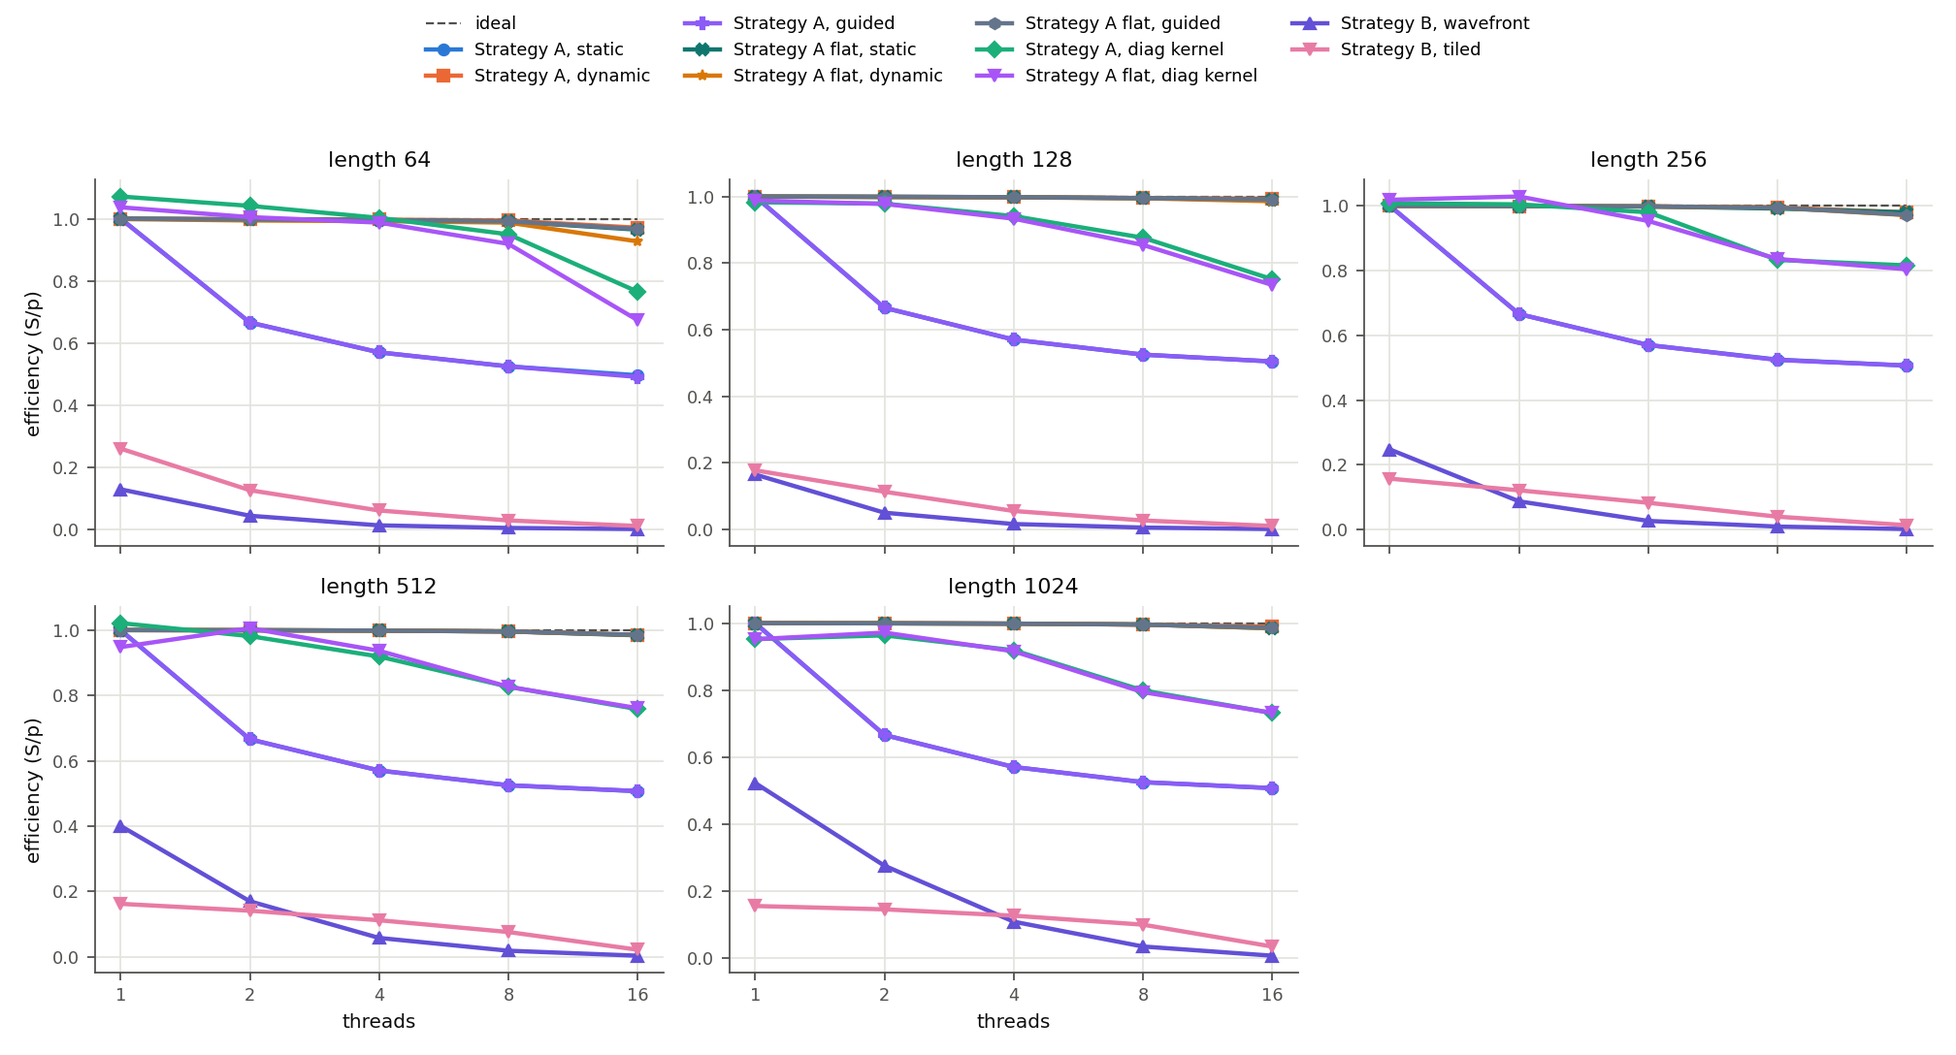
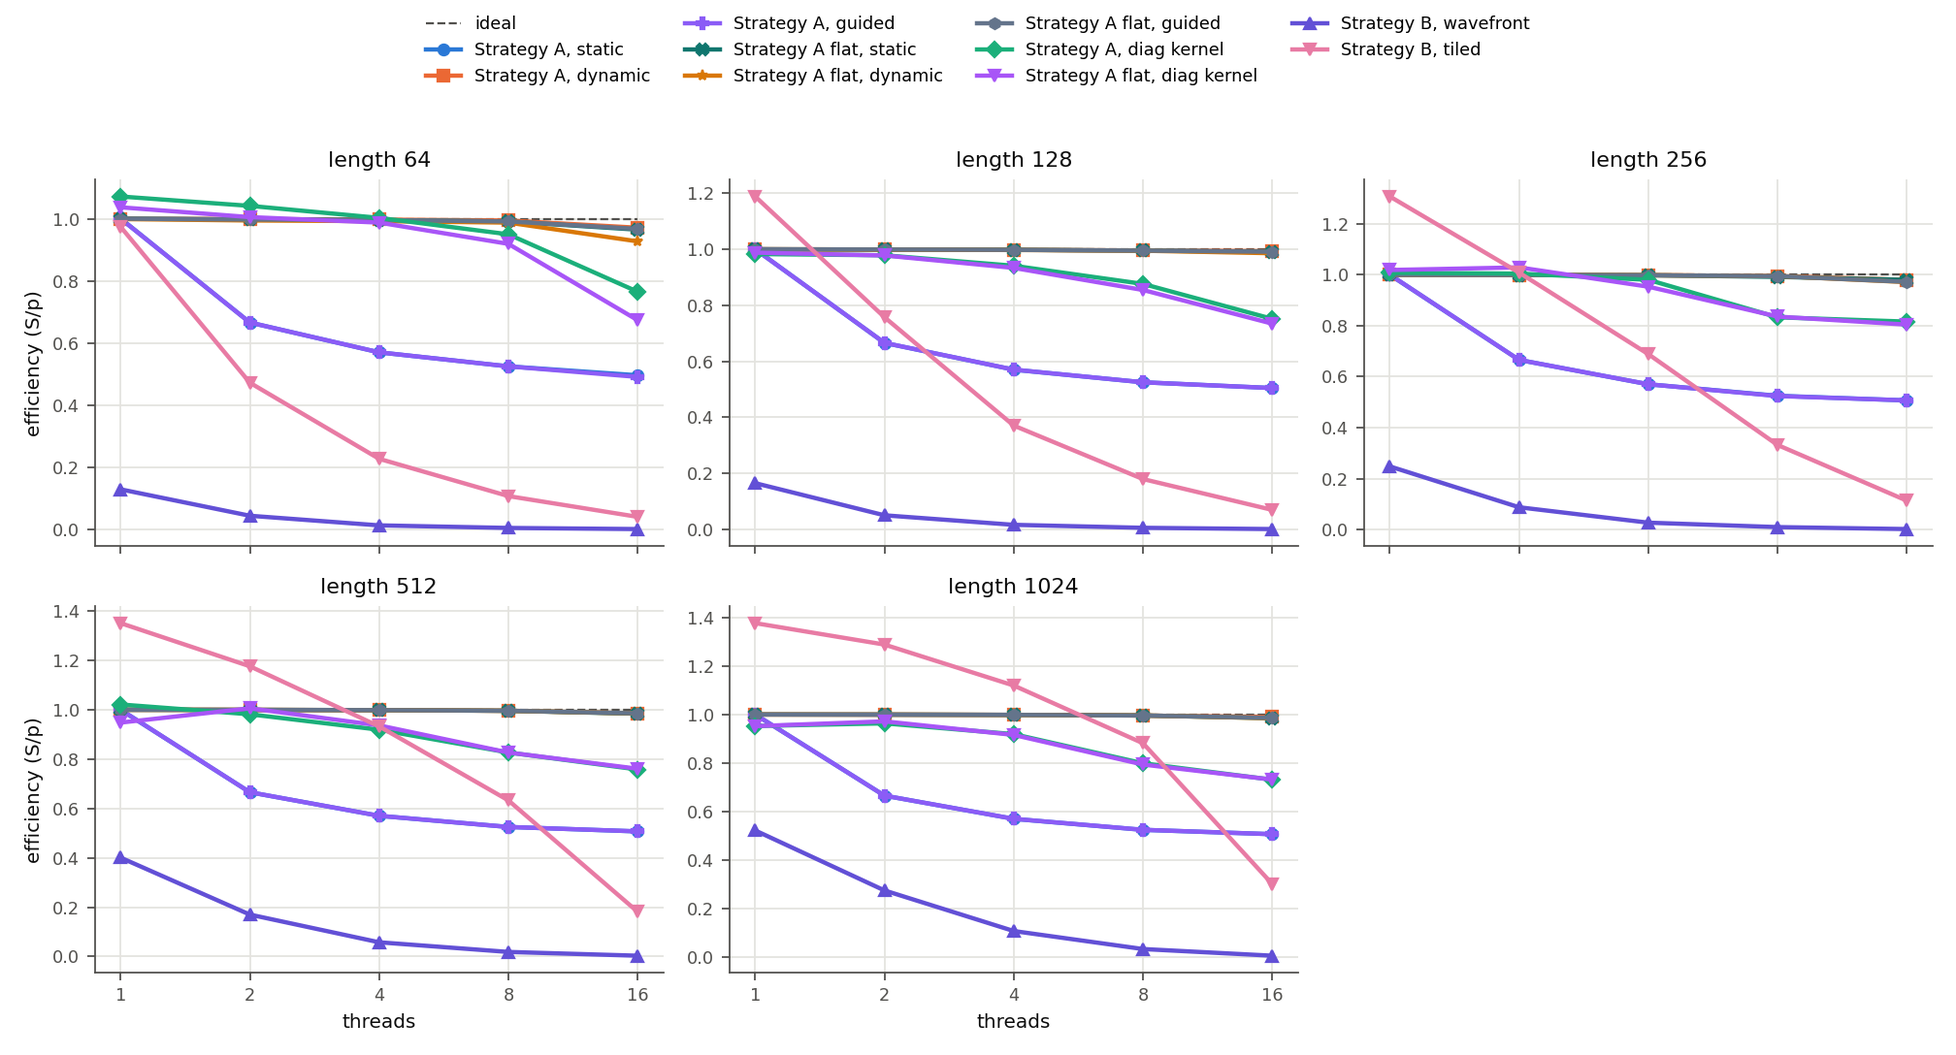
Correct tiled strategy speedup baseline

diff --git a/scripts/analyze.py b/scripts/analyze.py
@@ -77,14 +77,14 @@ def summarise(df):
     one = par[par.threads == 1].set_index(["variant", "n", "len"]).time.rename("t_self1")
     par = par.join(one, on=["variant", "n", "len"])
     # Preserve same-variant thread scaling as a separate metric. Headline
-    # speedup uses the matching serial kernel: row order for A/Aflat and
-    # diagonal order for Adiag/Adflat/B/Btiled.
+    # speedup uses the matching serial kernel: row order for A/Aflat/Btiled and
+    # diagonal order for Adiag/Adflat/B.
     par["self_speedup"] = par.t_self1 / par.time              # vs same code at p=1
     par["speedup_vs_row_serial"] = par.t_serial / par.time
     par["speedup_vs_diag"] = par.t_diag_serial / par.time     # vs diagonal-order serial
-    diag_variants = par.variant.isin(
-        ["Adiag-dynamic", "Adflat-dynamic", "B", "Btiled"]
-    )
+    # Btiled evaluates the cells of each tile in row order, so its matching
+    # serial kernel is row order, like A/Aflat (not the diagonal kernel).
+    diag_variants = par.variant.isin(["Adiag-dynamic", "Adflat-dynamic", "B"])
     par["speedup"] = par.speedup_vs_row_serial
     par.loc[diag_variants, "speedup"] = par.loc[
         diag_variants, "speedup_vs_diag"
@@ -268,7 +268,7 @@ def write_md(df, par, out):
         lines.append(f"| {L} | {s.iloc[0]:.3f} | {d.iloc[0]:.3f} |" if len(s) and len(d) else f"| {L} | - | - |")
     lines += ["", "## Speedup vs matching serial baseline (efficiency in brackets)",
               "", "Speedup is T_serial / T_p; efficiency is speedup / thread count.",
-              "Row-order A variants use row-order serial. Diagonal-kernel and wavefront variants use diagonal-order serial (Bdiag).",
+              "Row-order A variants and tiled B (row-order cells inside each tile) use row-order serial. Diagonal-kernel A variants and wavefront B use diagonal-order serial (Bdiag).",
               "Scaling against each variant's own one-thread run is available in `summary.csv` as `self_speedup` and in `fig_self_speedup.png`.", ""]
     threads = sorted(par.threads.unique())
     for L in sorted(par.len.unique()):

diff --git a/README.md b/README.md
@@ -1,156 +1,179 @@
 # PulseWarp: Parallel Pairwise DTW for ECG Heartbeats
 
-CSC 548 Fall 2026, Purtee Mahajan and Yash Dhavale.
+CSC 548 Fall 2026 — Purtee Mahajan and Yash Dhavale
 
-All-pairs Dynamic Time Warping over N ECG heartbeats (N(N-1)/2 DTWs),
-accelerated with OpenMP two ways:
+PulseWarp computes all-pairs Dynamic Time Warping (DTW) distances for `N`
+heartbeat sequences, requiring `N(N-1)/2` pairwise DTW computations. It compares
+two OpenMP parallelization strategies:
 
 | | Strategy A | Strategy B |
 |---|---|---|
-| split unit | whole heartbeat pairs | cells of one anti-diagonal |
-| parallelism | across DTW computations | inside one DTW |
-| overhead | almost none | one barrier per diagonal (2L per DTW) |
+| Parallel unit | Whole heartbeat pairs | Cells on one anti-diagonal |
+| Parallelism | Across independent DTW computations | Within a DTW computation |
+| Main overhead | Scheduling pair iterations | A barrier between anti-diagonals |
 
-## Layout
+## Repository layout
 
-```
+```text
 src/pulsewarp.h   API
-src/data.c        MIT-BIH CSV loader, synthetic beats, linear resampling
-src/dtw.c         DTW kernels: row order (reference), diagonal order,
-                  wavefront (omp for per anti-diagonal), tiled wavefront
-src/allpairs.c    all-pairs drivers for every strategy
-src/main.c        CLI, timing (median of reps), golden write/verify, CSV row
-tests/test_dtw.c  unit tests (hand-checked values, all variants bit-identical)
-scripts/          SLURM templates, sweep, data download, analysis/plots
-data/             put mitbih_train.csv here (see data/README.md)
-results/          golden vectors, sweep CSVs, logs, analysis output
+src/data.c        MIT-BIH CSV loader, synthetic beats, and linear resampling
+src/dtw.c         Row-order reference, diagonal-order, wavefront, and tiled kernels
+src/allpairs.c    All-pairs drivers for the strategies
+src/main.c        CLI, timing, golden-vector verification, and CSV output
+tests/test_dtw.c  Unit tests for DTW variants
+scripts/          SLURM templates, sweeps, data download, and analysis
+data/             Put mitbih_train.csv here; see data/README.md
+results/          Sweep outputs, golden vectors, logs, and analysis results
 ```
 
 ## Strategies (`--strategy`)
 
-| name | what it is |
+| Name | Description |
 |---|---|
-| `serial` | row-order DTW, serial pair loop. **The golden reference and T_serial.** |
-| `A` | `omp parallel for schedule(runtime)` over the outer beat index; `--schedule static\|dynamic\|guided[,chunk]` |
-| `Aflat` | Strategy A over one flattened iteration space containing every pair |
-| `Adiag` | Strategy A, but each pair uses the diagonal-order kernel (see note below) |
-| `Adflat` | Flattened Strategy A using the diagonal-order DTW kernel |
-| `Bdiag` | Strategy B step 1: diagonal-order DTW, serial. Verifies the restructuring. |
-| `B` | wavefront: one parallel region for the whole run, `omp for` over each anti-diagonal, implicit barrier between diagonals |
-| `Btiled` | tiled wavefront: `--tile T` blocks, `omp for schedule(dynamic,1)` over each block-diagonal |
+| `serial` | Serial pair loop using row-order DTW; the golden reference and row-order serial baseline. |
+| `A` | OpenMP `parallel for schedule(runtime)` over the outer heartbeat index; choose `--schedule static`, `dynamic`, or `guided` (optionally with a chunk). |
+| `Aflat` | Strategy A over one flattened iteration space containing all pairs. |
+| `Adiag` | Strategy A using the diagonal-order DTW kernel for each pair. |
+| `Adflat` | Flattened Strategy A using the diagonal-order DTW kernel. |
+| `Bdiag` | Serial diagonal-order DTW; checks the diagonal reordering and supplies its serial baseline. |
+| `B` | Wavefront DTW: one parallel region, an OpenMP loop per anti-diagonal, and an implicit barrier between diagonals. |
+| `Btiled` | Tiled wavefront DTW using `--tile T` and dynamic scheduling over block-diagonals. |
 
-All variants use the same cell update in the same argument order, so their
-distances are **bit-identical** to the serial reference (max_rel_err = 0).
+All variants use the same recurrence and arithmetic order where applicable.
+The measured sweep passed exact golden-vector verification for all 260 rows.
 
 ## Build and test
 
 ```bash
 module load gcc          # on ARC
 make                     # builds ./pulsewarp
-make test                # unit tests
+make test                # runs unit tests
 ```
 
-## Run
+## Run one configuration
 
 ```bash
 ./pulsewarp --input data/mitbih_train.csv --n 300 --len 256 --strategy serial \
-            --out results/golden/golden_N300_L256.bin            # golden reference
+  --out results/golden/golden_N300_L256.bin
+
 ./pulsewarp --input data/mitbih_train.csv --n 300 --len 256 --strategy A \
-            --schedule dynamic --threads 16 --reps 5 \
-            --golden results/golden/golden_N300_L256.bin --header
+  --schedule dynamic --threads 16 --reps 5 \
+  --golden results/golden/golden_N300_L256.bin --header
 ```
 
-Every run prints one CSV row: `strategy,schedule,tile,threads,n,len,pairs,reps,
-median_s,min_s,max_s,checksum,verify,max_rel_err,times`. Only the all-pairs
-computation is timed (`omp_get_wtime`), not loading or resampling.
-`--synthetic` replaces `--input` with generated ECG-like beats for quick tests.
+Each run prints one CSV row with the strategy, schedule, tile size, thread
+count, input dimensions, timing statistics, checksum, and verification result.
+Only the all-pairs computation is timed; data loading and resampling are not.
+Use `--synthetic` instead of `--input` for a quick run on generated ECG-like
+beats.
 
-Makefile shortcuts: `make golden` (serial at every length), `make verify`
-(every strategy against golden), both take `DATA=... N=... LENGTHS="..."`.
+Makefile shortcuts include `make golden` to generate serial golden vectors and
+`make verify` to compare variants against them. Both accept `DATA`, `N`, and
+`LENGTHS` overrides.
 
-## On ARC
+## Main ARC sweep
+
+The main sweep is complete. It ran on ARC node `c0` with an AMD EPYC 9115
+(16 physical cores, no SMT, one NUMA node), GCC 12.4.0, and
+`OMP_PROC_BIND=close OMP_PLACES=cores`. The run used `N=300`, sequence lengths
+64, 128, 256, 512, and 1024, thread counts 1, 2, 4, 8, and 16, and five timed
+repetitions per configuration. All 260 rows passed exact golden-vector
+verification.
+
+The source files and scripts can be rebuilt on ARC with `make`. To reproduce
+the sweep, first check that the requested partition and CPU allocation match
+the SLURM settings in `scripts/sweep.slurm`, then submit:
 
 ```bash
-ssh <unityid>@arc.csc.ncsu.edu          # on the NCSU VPN
-# copy this folder over (scp/git), put data/mitbih_train.csv in place
-sinfo -o "%P %c %N"                     # inspect cores available per partition
-#   edit the SBATCH partition line in scripts/sweep.slurm for your allocation
-sbatch scripts/sweep.slurm              # full sweep, roughly 1-3 h at N=300
-squeue -u $USER
-make analyze PROFILE=results/profile_A_static_L256_p16.csv
-DATA=data/mitbih_train.csv N=300 LENGTH=256 THREADS=16 \
-  SCHEDULE=static scripts/profile.sh         # -> per-thread profile CSV
-python3 scripts/analyze.py results/sweep_*.csv --profile results/profile_A_static_L256_p16.csv
+sbatch scripts/sweep.slurm
+squeue -u "$USER"
 ```
 
-The sweep covers lengths 64..1024 x threads 1..16 by default x {A/Aflat static,
-dynamic and guided; Adiag/Adflat; B; Btiled} plus both serial baselines, median
-of 5 reps, and checks
-every run against the golden vector. Override with env vars, e.g.
-`sbatch --export=ALL,N=200,REPS=3 scripts/sweep.slurm`. Increase the thread
-list with `THREADS="1 2 4 8 16 32"` only when your SLURM allocation provides
-at least that many CPUs.
-`scripts/pulsewarp.slurm` is a single-run template for debugging one config.
+The sweep script accepts overrides through its environment, for example:
+
+```bash
+sbatch --export=ALL,N=200,REPS=3 scripts/sweep.slurm
+```
+
+The existing main sweep is `results/sweep_341380_N300.csv`; its environment
+record is `results/sweep_341380_N300.env.txt`. The per-thread profile used in
+the load-imbalance figure is
+`results/profile_A_static_L256_p16.csv`.
 
 ## Analysis output (`scripts/analyze.py`)
 
-- `summary.csv` / `summary.md`: runtime, speedup and efficiency against the
-  same strategy at one thread, end-to-end speedup against row-order serial,
-  and which of A / B wins at each (length, threads)
-- `fig_runtime.png`, `fig_speedup.png`, `fig_efficiency.png`,
-  `fig_self_speedup.png`: one panel per length
-- `fig_ratio_B_over_A*.png`, `fig_ratio_Btiled_over_A*.png`: heatmaps of
-  T_B / T_A using both the row-order A kernel and the diagonal-order A kernel
-  (the latter controls for the diagonal kernel's vectorization advantage)
-- `fig_crossover.png`: same-kernel scaling and observed B/A runtime ratio
-- `fig_load_imbalance.png`: per-thread work time and pair count (requires `--profile`)
-- `fig_correctness.png` / `correctness.csv`: verification coverage and maximum error
-- `fig_serial_vs_length.png`: both serial kernels against O(L²)
-
-## Extension experiments (`scripts/sweep_ext.sh`)
-
-Not yet run on ARC. Same node type as the main sweep.
+Regenerate the tables and figures locally or on ARC from the existing sweep:
 
 ```bash
-sbatch scripts/sweep_ext.slurm                      # all modes
-sbatch --export=ALL,MODES=nsweep scripts/sweep_ext.slurm
-python3 scripts/analyze_ext.py                      # -> results/analysis_ext/
-# fold the extra lengths into the main plots (configurations do not overlap):
-make analyze ANALYSIS_INPUTS="results/sweep_341380_N300.csv results/ext_lengths_<jobid>_N300.csv"
+python3 scripts/analyze.py results/sweep_341380_N300.csv \
+  --profile results/profile_A_static_L256_p16.csv \
+  --out results/analysis
 ```
 
-| mode | question |
+Speedup is `T_serial / T_p`, and efficiency is speedup divided by the thread
+count. Row-order A/Aflat variants and `Btiled` use the row-order serial
+baseline; `Btiled` computes the cells within each tile in row order. Diagonal
+kernel variants and wavefront `B` use `Bdiag`, the diagonal-order serial
+baseline. The separate `self_speedup` column and `fig_self_speedup.png` show
+scaling against each variant's own one-thread run. `analyze.py` refuses to combine
+overlapping configurations from multiple sweep files unless
+`--merge-repeats` is explicitly supplied.
+
+The analysis produces:
+
+- `summary.csv` and `summary.md`: runtimes, matched-serial speedup and
+  efficiency, same-variant scaling, and the fastest A and B variant by
+  length/thread configuration.
+- `fig_runtime.png`, `fig_speedup.png`, `fig_efficiency.png`, and
+  `fig_self_speedup.png`: timing and scaling plots by sequence length.
+- `fig_ratio_B_over_A*.png` and `fig_ratio_Btiled_over_A*.png`: B/A runtime
+  ratio heatmaps. For matched kernels, use `fig_ratio_Btiled_over_A.png`
+  (row-order kernels) and `fig_ratio_B_over_Adiag.png` (diagonal-order
+  kernels). Ratios above 1 mean A is faster.
+- `fig_crossover.png`: speedup against both serial baselines at selected thread
+  counts and lengths.
+- `fig_load_imbalance.png`: per-thread assigned work and time; requires
+  `--profile`.
+- `fig_correctness.png` and `correctness.csv`: verification coverage and
+  maximum relative error.
+- `fig_serial_vs_length.png`: both serial kernels and an `O(L²)` reference.
+
+## Main-sweep findings
+
+These results describe one node and one dataset. They should not be generalized
+to other CPUs without further measurements.
+
+- Dynamic scheduling for Strategy A and the flattened A variants reached
+  roughly 15–16x speedup at 16 threads. Static and guided scheduling over the
+  outer triangular loop reached about 8x; the profile shows a substantial
+  imbalance in the number of pairs assigned to threads.
+- The diagonal-order serial kernel is substantially faster than row-order
+  serial on this CPU (at `L=256`, 0.574 s versus 4.768 s). Therefore, speedup
+  comparisons should use each variant's matching serial baseline, and the
+  diagonal-kernel advantage should be reported separately from parallel
+  scaling.
+- For the tested `N=300` configurations, the fastest A variant beat the
+  fastest B variant at every measured length and thread count. The extension
+  experiments below have not been run, so this finding is limited to the main
+  sweep's workload.
+- Wavefront `B` at one thread ran at 0.13–0.52x the diagonal-order serial
+  baseline. Tiled `B` reached about 7.1x row-order serial at `L=1024`, `p=8`,
+  then fell to about 4.8x at `p=16`; it still did not beat Strategy A with the
+  same row-order kernel.
+
+## Optional extension experiments
+
+These experiments are follow-up work and are **not included in the main-sweep
+results**. They are not required to reproduce the results above. If run later,
+`scripts/sweep_ext.slurm` submits them and `scripts/analyze_ext.py` analyzes the
+extension output.
+
+| Mode | Question |
 |---|---|
-| `nsweep` | few beats (N=2..32), long sequences (L=1024, 4096), 16 threads: once A has fewer pairs than threads, can B overtake it? Also B with `OMP_WAIT_POLICY=active` |
-| `weak` | work grows with p: A with N ~ sqrt(p); B with L ~ sqrt(p) |
-| `affinity` | OMP_PROC_BIND / OMP_PLACES: false, close, spread x cores, threads |
-| `lengths` | lengths 32 and 187 (native) from the locked proposal scope |
+| `nsweep` | With few pairs (`N=2..32`) and long sequences (`L=1024, 4096`), can B overtake A? Includes an active-wait B run. |
+| `weak` | How does performance change as work grows with thread count? |
+| `affinity` | How do `OMP_PROC_BIND` and `OMP_PLACES` settings affect performance? |
+| `lengths` | How do the proposal's additional lengths 32 and 187 perform? |
 
-## Interpreting the diagonal kernel and measured results
-
-The row-order kernel is latency bound: each cell waits on its left neighbour.
-In diagonal order the cells of a diagonal are independent, so GCC can
-vectorise the inner loop. On the included sweep, the serial diagonal kernel
-(`Bdiag`) is about 8x faster than row-order serial (L=256: 0.574 s vs 4.768 s;
-L=1024: 9.12 s vs 80.9 s). That is why `Adiag`/`Adflat` are separate variants
-and why the analysis distinguishes speedup against the same strategy at one
-thread from end-to-end speedup against row-order serial.
-
-The included sweep (`results/sweep_341380_N300.*`) is one run on node `c0`:
-AMD EPYC 9115, 16 physical cores, no SMT, one NUMA node, GCC 12.4.0,
-`OMP_PROC_BIND=close OMP_PLACES=cores`, N=300, lengths 64..1024, threads
-1..16, five timed repetitions per configuration. Every row (260) passed exact
-golden-vector verification. It includes `Aflat`/`Adflat` and guided scheduling
-and was used to produce `results/analysis/` and the per-thread profile
-`results/profile_A_static_L256_p16.csv`. An earlier sweep from a different CPU
-(EPYC 7302P) is kept in `results/archive/` for reference only; `analyze.py`
-refuses to average sweeps from different files unless `--merge-repeats` is given.
-
-Observed in this run (single node, single dataset): Strategy A with dynamic
-scheduling, or any schedule on the flattened loop, reaches about 15-16x at
-16 threads; static and guided on the outer-index loop stall near 8x because
-the triangular loop gives thread 0 about 36x the pairs of thread 15 (see the
-profile). The diagonal-kernel variants scale to roughly 10-13x at 16 threads.
-Strategy B (wavefront) is slower than its own 1-thread run in every
-configuration with p >= 2 except L=1024 at p=2 (1.05x); the tiled version helps only at the longest lengths and still does not
-beat Strategy A with the same kernel.
+Do not cite extension results unless these experiments have actually been run
+and analyzed.

diff --git a/results/analysis/summary.md b/results/analysis/summary.md
@@ -13,7 +13,7 @@
 ## Speedup vs matching serial baseline (efficiency in brackets)
 
 Speedup is T_serial / T_p; efficiency is speedup / thread count.
-Row-order A variants use row-order serial. Diagonal-kernel and wavefront variants use diagonal-order serial (Bdiag).
+Row-order A variants and tiled B (row-order cells inside each tile) use row-order serial. Diagonal-kernel A variants and wavefront B use diagonal-order serial (Bdiag).
 Scaling against each variant's own one-thread run is available in `summary.csv` as `self_speedup` and in `fig_self_speedup.png`.
 
 ### length 64
@@ -29,7 +29,7 @@ Scaling against each variant's own one-thread run is available in `summary.csv` 
 | Strategy A, diag kernel | 1.07 (1.07) | 2.08 (1.04) | 4.01 (1.00) | 7.60 (0.95) | 12.24 (0.77) |
 | Strategy A flat, diag kernel | 1.04 (1.04) | 2.01 (1.01) | 3.95 (0.99) | 7.35 (0.92) | 10.78 (0.67) |
 | Strategy B, wavefront | 0.13 (0.13) | 0.09 (0.04) | 0.05 (0.01) | 0.03 (0.00) | 0.01 (0.00) |
-| Strategy B, tiled | 0.26 (0.26) | 0.25 (0.13) | 0.24 (0.06) | 0.23 (0.03) | 0.17 (0.01) |
+| Strategy B, tiled | 0.97 (0.97) | 0.94 (0.47) | 0.91 (0.23) | 0.86 (0.11) | 0.64 (0.04) |
 
 ### length 128
 
@@ -44,7 +44,7 @@ Scaling against each variant's own one-thread run is available in `summary.csv` 
 | Strategy A, diag kernel | 0.98 (0.98) | 1.96 (0.98) | 3.76 (0.94) | 7.01 (0.88) | 12.02 (0.75) |
 | Strategy A flat, diag kernel | 0.99 (0.99) | 1.96 (0.98) | 3.73 (0.93) | 6.84 (0.85) | 11.75 (0.73) |
 | Strategy B, wavefront | 0.16 (0.16) | 0.10 (0.05) | 0.06 (0.02) | 0.04 (0.01) | 0.02 (0.00) |
-| Strategy B, tiled | 0.18 (0.18) | 0.23 (0.11) | 0.22 (0.06) | 0.21 (0.03) | 0.17 (0.01) |
+| Strategy B, tiled | 1.19 (1.19) | 1.51 (0.76) | 1.48 (0.37) | 1.44 (0.18) | 1.11 (0.07) |
 
 ### length 256
 
@@ -59,7 +59,7 @@ Scaling against each variant's own one-thread run is available in `summary.csv` 
 | Strategy A, diag kernel | 1.01 (1.01) | 2.01 (1.00) | 3.92 (0.98) | 6.66 (0.83) | 13.06 (0.82) |
 | Strategy A flat, diag kernel | 1.02 (1.02) | 2.06 (1.03) | 3.81 (0.95) | 6.69 (0.84) | 12.87 (0.80) |
 | Strategy B, wavefront | 0.25 (0.25) | 0.17 (0.09) | 0.11 (0.03) | 0.08 (0.01) | 0.03 (0.00) |
-| Strategy B, tiled | 0.16 (0.16) | 0.24 (0.12) | 0.33 (0.08) | 0.32 (0.04) | 0.22 (0.01) |
+| Strategy B, tiled | 1.31 (1.31) | 2.02 (1.01) | 2.75 (0.69) | 2.65 (0.33) | 1.81 (0.11) |
 
 ### length 512
 
@@ -74,7 +74,7 @@ Scaling against each variant's own one-thread run is available in `summary.csv` 
 | Strategy A, diag kernel | 1.02 (1.02) | 1.96 (0.98) | 3.68 (0.92) | 6.61 (0.83) | 12.13 (0.76) |
 | Strategy A flat, diag kernel | 0.95 (0.95) | 2.01 (1.01) | 3.75 (0.94) | 6.61 (0.83) | 12.18 (0.76) |
 | Strategy B, wavefront | 0.40 (0.40) | 0.34 (0.17) | 0.23 (0.06) | 0.15 (0.02) | 0.06 (0.00) |
-| Strategy B, tiled | 0.16 (0.16) | 0.28 (0.14) | 0.45 (0.11) | 0.61 (0.08) | 0.35 (0.02) |
+| Strategy B, tiled | 1.35 (1.35) | 2.35 (1.18) | 3.73 (0.93) | 5.06 (0.63) | 2.91 (0.18) |
 
 ### length 1024
 
@@ -89,7 +89,7 @@ Scaling against each variant's own one-thread run is available in `summary.csv` 
 | Strategy A, diag kernel | 0.95 (0.95) | 1.93 (0.96) | 3.68 (0.92) | 6.39 (0.80) | 11.71 (0.73) |
 | Strategy A flat, diag kernel | 0.95 (0.95) | 1.94 (0.97) | 3.66 (0.92) | 6.35 (0.79) | 11.71 (0.73) |
 | Strategy B, wavefront | 0.52 (0.52) | 0.55 (0.28) | 0.43 (0.11) | 0.27 (0.03) | 0.11 (0.01) |
-| Strategy B, tiled | 0.16 (0.16) | 0.29 (0.15) | 0.50 (0.13) | 0.80 (0.10) | 0.54 (0.03) |
+| Strategy B, tiled | 1.38 (1.38) | 2.58 (1.29) | 4.48 (1.12) | 7.05 (0.88) | 4.83 (0.30) |
 
 ## Best Strategy A variant vs best Strategy B variant per configuration
 
